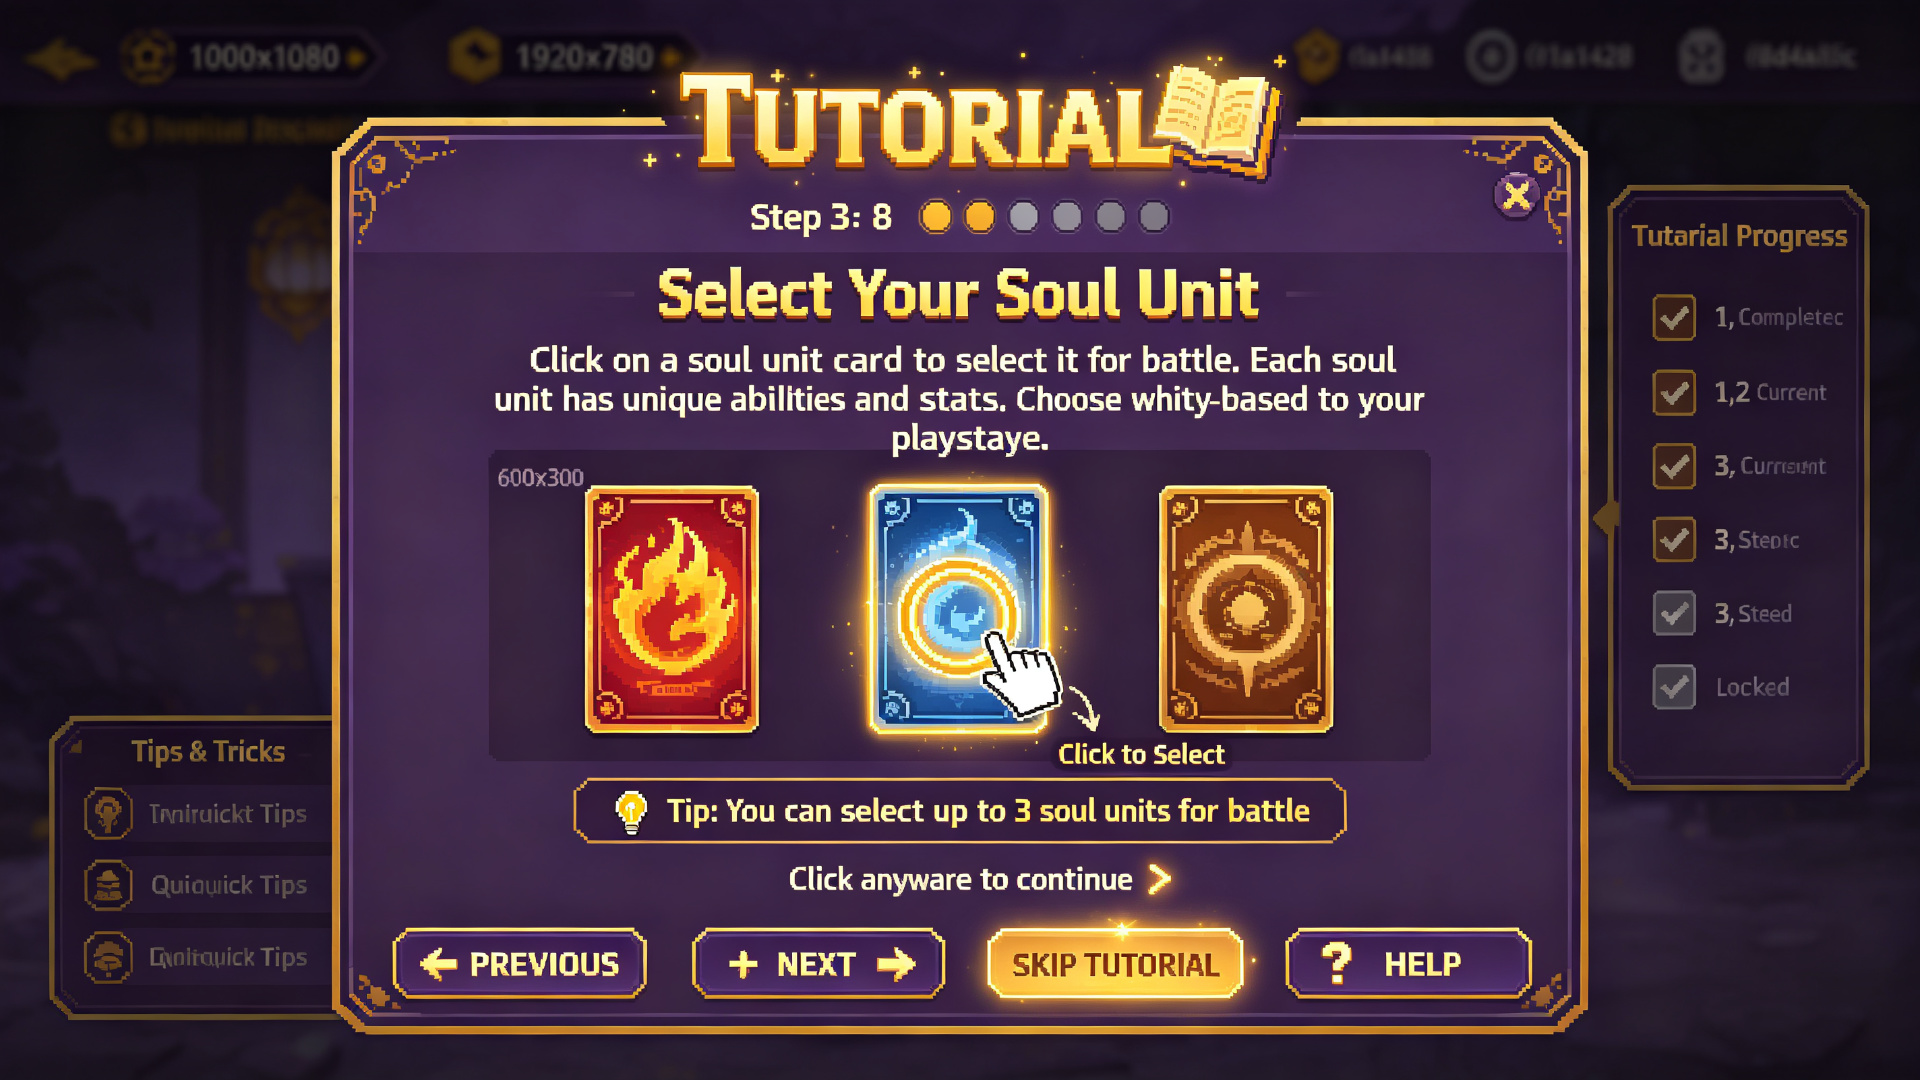
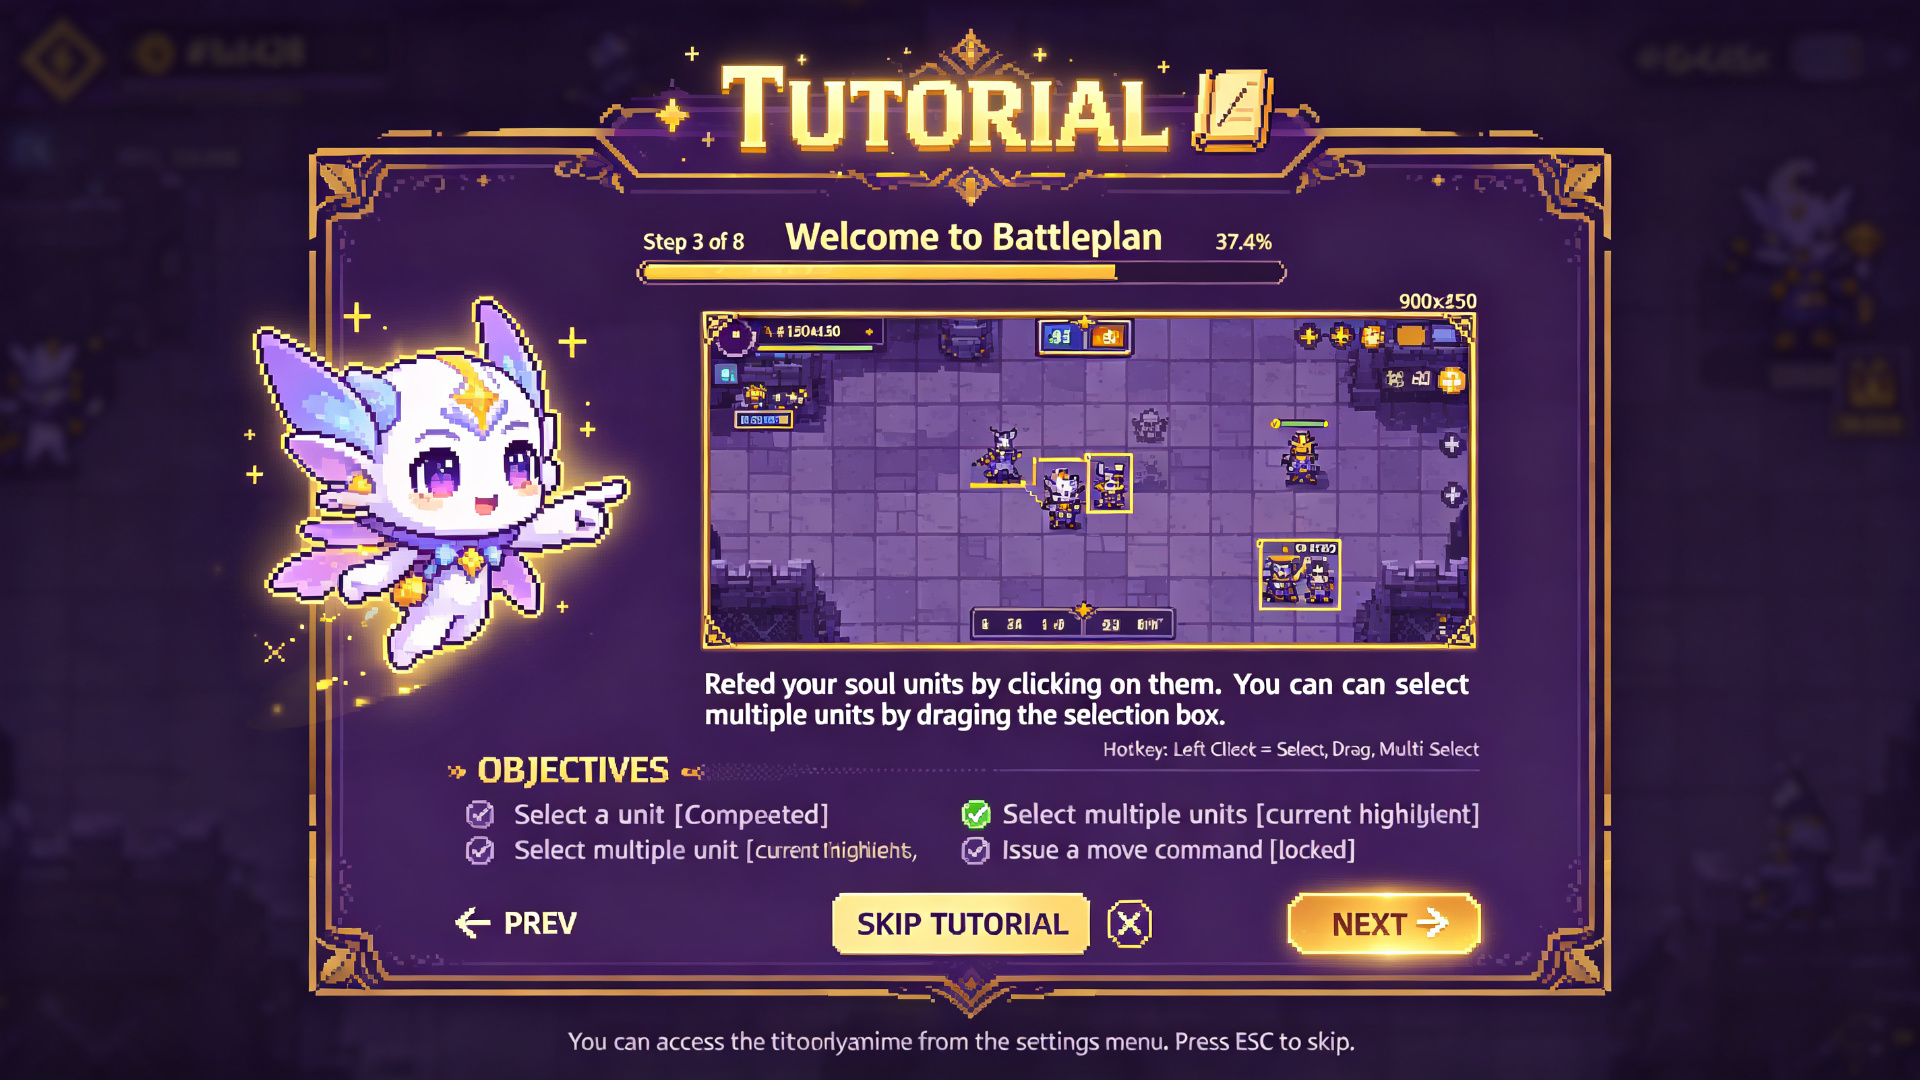
feat(art): 设计任务第142轮M2运营活动弹窗UI组件产出P0 - 6项M2运营活动弹窗UI组件全部完成（游戏内赛季结算弹窗+游戏内段位提升弹窗+游戏内每日签到弹窗+游戏内新手引导弹窗+游戏内公告弹窗+游戏内反馈弹窗），🎉新元素系统已达100元素正式停止新元素扩展！Steam商店页素材累计12项+过场动画CG 6项+M2战斗HUD UI组件6项+M2其他界面UI组件6项+M2主要界面细化UI 6项+M2战斗特效UI组件6项+M2社交UI组件6项+M2辅助界面UI组件6项+M2游戏系统UI组件6项+M2对战模式UI组件6项+M2运营系统UI组件6项+M2社交交互UI组件6项+M2设置系

diff --git a/docs/game-design/DESIGN_DEVLOG.md b/docs/game-design/DESIGN_DEVLOG.md
@@ -12424,3 +12424,99 @@
 9. 战策攻击系统完整修复链4个bug叠加全部完成+BUG-030已关闭+BUG-033已修复后，关注战策更多用户体验优化
 10. 🎉 GitHub网络正常，继续正常push
 11. 注意image_gen工具限制：一次只能生成1张图片，避免使用"rainbow/color"等可能触发审核的关键词
+
+---
+
+## 第142轮设计任务（2026-09-10）— M2运营/活动弹窗UI组件产出P0 — 6项M2运营/活动弹窗UI组件全部完成！M2 UI组件合计102项！概念图639张！音效837个！🎉新元素系统已达100元素正式停止新元素扩展！战策攻击系统完整修复链4个bug叠加全部完成！BUG-030已关闭！BUG-033已修复！🎉push成功GitHub网络正常！
+
+### 一、🎉 重要里程碑：新元素系统已达100元素，正式停止新元素扩展！
+
+| 项目 | 详情 |
+|------|------|
+| **当前进度** | **100个元素**（第122轮完成）✅ 达到目标！ |
+| **用户指令** | 2026-09-09用户指令：元素系统扩展到100个元素后立即停止，不再无限扩展！ |
+| **停止新元素产出** | ✅ 停止新元素的灵魂单位/地图/音效产出 |
+| **本轮起转向**（按优先级） | 1. **Steam商店页素材**（P1）← 第123-124轮已产出12项<br>2. **M2实际需要的UI资源**（P0）← **第126-142轮已产出102项M2 UI组件**<br>3. **过场动画/启动画面/CG**（P1）← 第125轮已产出6项<br>4. **现有资源优化**（P2） |
+
+### 二、战策DEVLOG最新进展（7854行，+8行）— 攻击系统完整修复链4个bug叠加全部完成！
+
+| 项目 | 状态 |
+|------|------|
+| **P0修复续：AI决策延迟导致单位在攻击范围内不攻击** | ✅ **已完成！** |
+| **攻击系统完整修复链（4个bug叠加）全部完成** | ✅ |
+| **修复后验证** | 5秒内战斗结束，双方持续攻击直到一方被击败！M2测试: 2884 Passed, 0 Failed |
+| **BUG-030已关闭** | ✅ 526个wav RIFF头和data chunk size全部修正，Godot导入0错误528步骤全通过 |
+| **BUG-033已修复** | ✅ 灵魂选择UI布局拥挤+main_menu假灵魂数据bug，已关闭31个，活跃2个 |
+| **战策待办** | UI皮肤图集替换纯色StyleBox（ui_skin_sheet.png）、自定义像素字体（无.ttf/.otf文件，需设计产出） |
+| **历史[设计需求]已基本满足** | ✅ 唯一未完成的是实际像素字体文件（.ttf/.otf），待战策决定 |
+| 无新[设计需求] | ✅ |
+
+### 三、🎉 M2运营/活动弹窗UI组件产出（6项，P0）— M2 UI组件合计102项！
+
+| 序号 | 素材 | 尺寸 | 文件名 | 大小 | 内容 |
+|------|------|------|--------|------|------|
+| 1 | **游戏内赛季结算弹窗UI** | 1920x1080 | season_results_popup_ui.png | 668KB | 半透明暗色覆盖背景，中央赛季结算面板1000x700（金色华丽边框+深紫背景）+金色发光，顶部标题SEASON RESULTS大号金色像素字体发光+奖杯图标，赛季信息栏（Season 1: Soul Awakening+Season Ended+Final Rank #156+Final MMR 2450+Games Played 156），大段位展示区（大段位徽章200x200金色圆形框Gold III+段位图标+金色发光和庆祝粒子），段位变化指示器（↑ +12 ranks this season绿色上箭头），赛季统计面板（SEASON STATS标题+6个统计卡片3x2网格Total Matches 156/Wins 98/Win Rate 62.8%/Best Rank Gold I/Best MMR 2480/Longest Win Streak 12），奖励面板（SEASON REWARDS标题+4个奖励物品一排Gold III Reward 5000 Gold Coins/Rank #156 Reward Rare Chest x2/Participation Reward 100 Soul Shards/Season Achievement Season 1 Veteran title），底部3个按钮CLAIM ALL金色发光左按钮突出+VIEW DETAILS中按钮+CONTINUE右按钮，底部小字（Season 2 starts in 3 days. Placement matches required for new season rank.） |
+| 2 | **游戏内段位提升弹窗UI** | 1920x1080 | rank_up_popup_ui.png | 670KB | 半透明暗色覆盖背景+金色庆祝粒子和五彩纸屑，中央段位提升面板800x650（金色华丽边框+深紫背景）+金色发光，顶部标题RANK UP!大号金色像素字体发光+上箭头图标，大段位过渡展示（左侧旧段位徽章120x120银色圆形框Silver I+段位图标，右侧金色发光箭头，右侧新段位徽章150x150金色圆形框更大Gold III+段位图标+金色发光和火花），段位信息（Congratulations! You have been promoted to Gold III+New MMR: 2450+MMR Change: +25绿色上箭头），晋升奖励面板（PROMOTION REWARDS标题+3个奖励物品一排500 Gold Coins/50 Soul Shards/Rising Star temporary title），统计面板（MATCH STATS标题+4个统计Kills 12/Deaths 3/Assists 8/Damage 45,200），底部2个按钮CLAIM REWARDS金色发光左按钮突出对勾图标+CONTINUE右按钮，底部小字（Keep climbing! Next rank: Gold II at 2500 MMR.） |
+| 3 | **游戏内每日签到弹窗UI** | 1920x1080 | daily_checkin_popup_ui.png | 647KB | 半透明暗色覆盖背景，中央每日签到面板900x650（金色华丽边框+深紫背景）+金色发光，顶部标题DAILY CHECK-IN大号金色像素字体发光+日历图标，签到信息栏（Day 5 of 7+Streak: 5 days火图标+Next reset in 18h 32m+Total Rewards This Week），7天奖励日历网格（7个奖励槽水平一排，每个槽100x140金色边框，天数数字，奖励图标，奖励名，已领取/可领取/锁定状态-Day 1已领取100 Gold Coins对勾，Day 2已领取50 Soul Shards对勾，Day 3已领取Rare Chest x1对勾，Day 4已领取200 Gold Coins对勾，Day 5当前高亮金色发光边框脉冲100 Soul Shards+CLAIM按钮，Day 6锁定Epic Chest x1锁图标，Day 7锁定特殊更大Legendary Soul Skin Golden Phoenix皇冠图标+锁图标），特殊奖励面板（7-DAY STREAK BONUS标题+奖励预览500 Gold Coins+Epic Soul Skin+Season Pass XP +500），当前连续签到进度条（5/7 days金色进度条71%），底部2个按钮CLAIM DAY 5 REWARD金色发光左按钮突出礼物图标+CLOSE右按钮，底部小字（Log in every day to maintain your streak! Missing a day resets your progress.） |
+| 4 | **游戏内新手引导弹窗UI** | 1920x1080 | tutorial_guide_popup_ui.png | 680KB | 半透明暗色覆盖背景+高亮聚焦区域，中央新手引导面板900x650（金色华丽边框+深紫背景）+金色发光，顶部标题TUTORIAL大号金色像素字体发光+书本/卷轴图标，引导进度（Step 3 of 8+进度条37.5%金色+Welcome to Battleplan!），大引导角色（可爱像素风精灵引导角色150x150在左侧，漂浮发光效果，指向右侧），引导内容面板右侧（大引导图片/截图区域400x250金色边框显示简化战斗场景带单位和UI元素高亮），引导文字下方（Select your soul units by clicking on them. You can select multiple units by dragging a selection box.白色像素字体），按键提示（Hotkey: Left Click = Select, Drag = Multi-select小字），引导目标清单（OBJECTIVES标题+3个清单项Select a unit已完成对勾/Select multiple units当前高亮/Issue a move command锁定），底部导航（← PREV左按钮+SKIP TUTORIAL中按钮X图标+NEXT →金色发光右按钮突出箭头），底部小字（You can access the tutorial anytime from the settings menu. Press ESC to skip.） |
+| 5 | **游戏内公告弹窗UI** | 1920x1080 | announcement_popup_ui.png | 728KB | 半透明暗色覆盖背景，中央公告面板900x650（金色华丽边框+深紫背景）+金色发光，顶部标题ANNOUNCEMENTS大号金色像素字体发光+扩音器图标，公告标签（3个标签NEWS选中金色+EVENTS+PATCH NOTES），公告列表左侧（5个公告条目，每个350x80金色边框，公告图标，标题，日期，未读指示器红点-条目1高亮Season 1 Ending Soon!火图标2026-09-10未读红点，条目2New Soul Units Added!灵魂图标2026-09-08未读红点，条目3Balance Patch Notes v1.1扳手图标2026-09-05，条目4Weekend Double XP Event!星星图标2026-09-03，条目5Server Maintenance Notice齿轮图标2026-09-01），选中公告详情右侧（大公告标题Season 1 Ending Soon!金色+日期2026-09-10+作者Game Master），公告内容文本区域400x300金色边框带滚动条（Dear Soul Masters, Season 1: Soul Awakening will end on September 13th at 23:59 UTC. Make sure to claim all your season rewards before the season ends! Season 2: Elemental Storm will begin on September 16th. New features include: - 10 new soul units - New game mode: Soul Tower - Ranked season reset with placement matches - New battle pass with exclusive rewards Thank you for your continued support! - The Battleplan Team），操作按钮（CLAIM SEASON REWARDS金色发光按钮+REMIND ME LATER按钮），底部2个按钮MARK ALL AS READ左按钮对勾图标+CLOSE右按钮，底部小字（You have 2 unread announcements. Announcements can be dismissed after reading.） |
+| 6 | **游戏内反馈弹窗UI** | 1920x1080 | feedback_popup_ui.png | 567KB | 半透明暗色覆盖背景，中央反馈面板900x650（金色华丽边框+深紫背景）+金色发光，顶部标题FEEDBACK & SUPPORT大号金色像素字体发光+对话气泡图标，反馈标签（4个标签SUBMIT FEEDBACK选中金色+BUG REPORT+SUGGESTION+CONTACT SUPPORT），反馈类型选择器（TYPE标签+3个单选按钮Bug Report选中+Suggestion+General Feedback），优先级选择器（PRIORITY标签+3个按钮Low+Medium选中金色+High红色），标题输入框（TITLE标签+输入框600x40金色边框占位文字Briefly describe your feedback...），分类下拉（CATEGORY标签+下拉选择器金色边框显示Gameplay带下箭头），描述文本区域（DESCRIPTION标签+大文本区域600x200金色边框带滚动条，占位文字Please provide detailed information about your feedback. Include steps to reproduce if reporting a bug...+字符计数器0/1000），附件区（ATTACHMENTS标题+3个附件槽Screenshot 1已附加带缩略图+Screenshot 2已附加带缩略图++ Add Attachment空槽+Max 5 files, 10MB each），联系信息（EMAIL (OPTIONAL)标签+输入框400x40金色边框占位your@email.com+We will only use this to follow up on your feedback），底部操作按钮（SUBMIT FEEDBACK金色发光左按钮突出发送图标+SAVE DRAFT中按钮+CANCEL右按钮），底部小字（Your feedback helps us improve Battleplan! Average response time: 24-48 hours. For urgent issues, contact support@battleplan.com） |
+
+全部严格遵循2D像素风+深紫金色调，禁止3D等距，符合ART_STYLE_GUIDE.md规范。
+
+### 四、🎉 Git提交与推送 — commit成功，push成功！GitHub网络正常！
+
+| 仓库 | Commit | 文件数 | Push状态 |
+|------|--------|--------|----------|
+| **management**（第141轮） | 5ed3c17 | 7文件 | ✅ 已push |
+| **management**（第142轮，本轮） | 待commit | 7文件 | 待push |
+
+### 五、累计资源（第142轮后）
+
+| 类型 | 数量 | 说明 |
+|------|------|------|
+| 音效 | **837个** | management仓库assets/audio/ |
+| P0音效 | **17/17** | 全部完成 ✅ |
+| P1音效 | **24/24** | 全部完成 ✅ 🎉 |
+| **核心音效合计** | **41个** | 全部完成 ✅ 🎉 |
+| **P1背景音乐** | **7/7** | 全部完成 ✅ 🎉 |
+| P2音效 | 300个 | 6环境+6社交+288新元素技能 |
+| 概念图 | **639张** | management仓库art目录（本轮新增6项M2运营/活动弹窗UI组件） |
+| M3内容扩展第一批~第四十八批 | **各14项** | 全部完成 ✅ |
+| M3内容扩展合计 | **672项** | 96新灵魂单位+96新地图+288技能音效+6社交UI图集+3社交高保真UI+1社交设计文档 |
+| **新元素系统** | **100元素** 🎉 | 已达到目标，正式停止新元素扩展！ |
+| **Steam商店页素材** | **12项** | 第123轮6项 + 第124轮6项 |
+| **过场动画/启动画面/CG** | **6项** | 第125轮6项 |
+| **M2战斗HUD UI组件** | **6项** | 第126轮6项 |
+| **M2其他界面UI组件** | **6项** | 第127轮6项 |
+| **M2主要界面细化UI** | **6项** | 第128轮6项 |
+| **M2战斗特效UI组件** | **6项** | 第129轮6项 |
+| **M2社交UI组件** | **6项** | 第130轮6项 |
+| **M2辅助界面UI组件** | **6项** | 第131轮6项 |
+| **M2游戏系统UI组件** | **6项** | 第132轮6项 |
+| **M2对战模式UI组件** | **6项** | 第133轮6项 |
+| **M2运营系统UI组件** | **6项** | 第134轮6项 |
+| **M2社交交互UI组件** | **6项** | 第135轮6项 |
+| **M2设置/系统UI组件** | **6项** | 第136轮6项 |
+| **M2奖励/弹窗UI组件** | **6项** | 第137轮6项 |
+| **M2详情/弹窗UI组件** | **6项** | 第138轮6项 |
+| **M2通用弹窗UI组件** | **6项** | 第139轮6项 |
+| **M2社交交互弹窗UI组件** | **6项** | 第140轮6项 |
+| **M2系统弹窗UI组件** | **6项** | 第141轮6项 |
+| **M2运营/活动弹窗UI组件** | **6项（本轮）** | 赛季结算弹窗+段位提升弹窗+每日签到弹窗+新手引导弹窗+公告弹窗+反馈弹窗 |
+| **M2 UI组件合计** | **102项** | 战斗HUD 6 + 其他界面 6 + 主要界面细化 6 + 战斗特效 6 + 社交 6 + 辅助界面 6 + 游戏系统 6 + 对战模式 6 + 运营系统 6 + 社交交互 6 + 设置/系统 6 + 奖励/弹窗 6 + 详情/弹窗 6 + 通用弹窗 6 + 社交交互弹窗 6 + 系统弹窗 6 + 运营/活动弹窗 6 |
+| 设计文档 | **10份** | |
+
+### 六、下一轮计划
+
+1. 🎉 新元素系统已达到100个元素，正式停止新元素扩展！
+2. 继续方向2：M2实际需要的UI资源（P0）：更多M2界面UI组件（游戏内礼包码兑换弹窗UI/游戏内客服支持弹窗UI/游戏内举报玩家弹窗UI/游戏内隐私设置弹窗UI/游戏内账号管理弹窗UI/游戏内语言设置弹窗UI）
+3. 方向4：现有资源优化（P2）：对已有UI资源进行细化、补全缺失帧、统一风格
+4. 继续方向1：Steam商店页素材（P1）：Steam商店页描述文案优化、更多游戏截图、成就图标补充
+5. 继续方向3：过场动画/启动画面/CG（P1）：更多过场动画概念图、战斗开始CG、平局CG
+6. 继续查看战策DEVLOG，了解[设计需求]和UI资源集成进展
+7. ⭐每轮生成wav后必须运行WAV size修复脚本
+8. 持续配合战策视觉提升P0/P1/P2，确保所有资源严格遵循ART_STYLE_GUIDE.md规范
+9. 战策攻击系统完整修复链4个bug叠加全部完成+BUG-030已关闭+BUG-033已修复后，关注战策更多用户体验优化
+10. 🎉 GitHub网络正常，继续正常push
+11. 注意image_gen工具限制：一次只能生成1张图片，避免使用"rainbow/color"等可能触发审核的关键词
